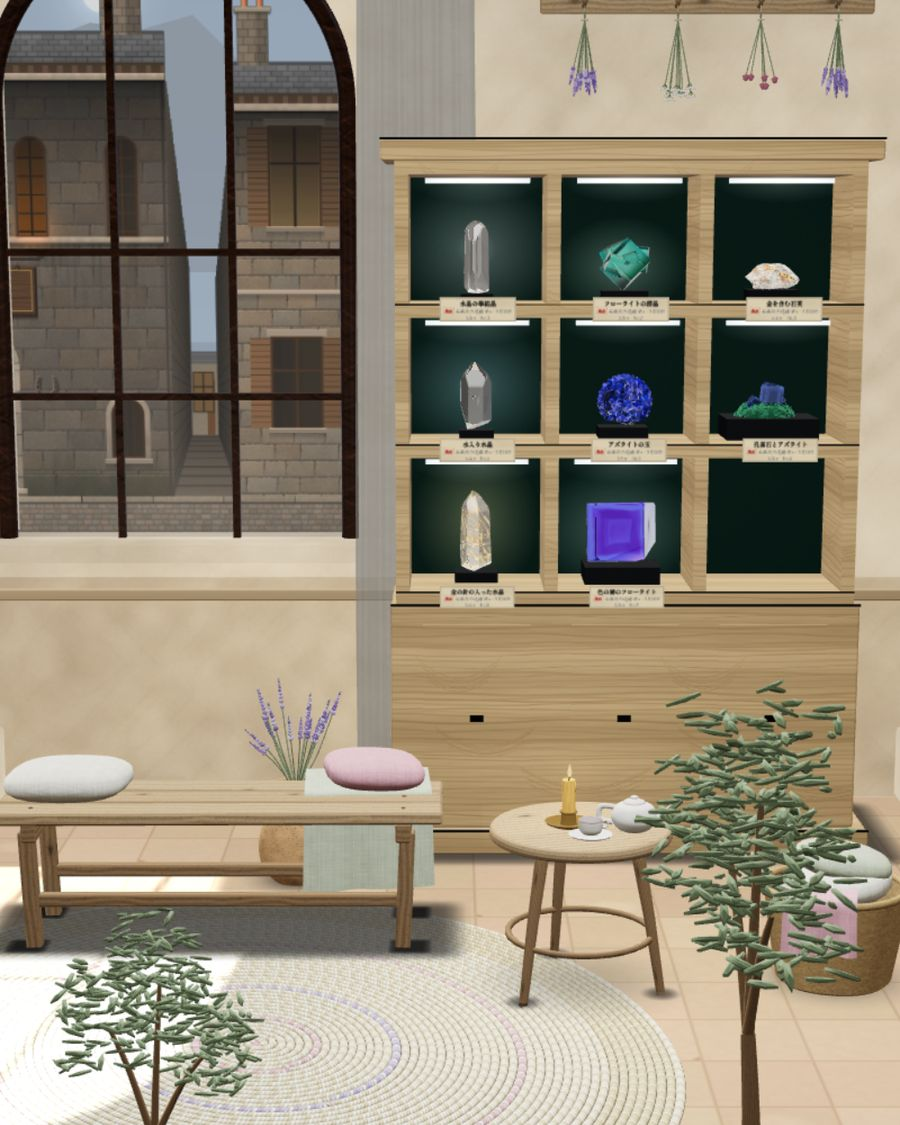
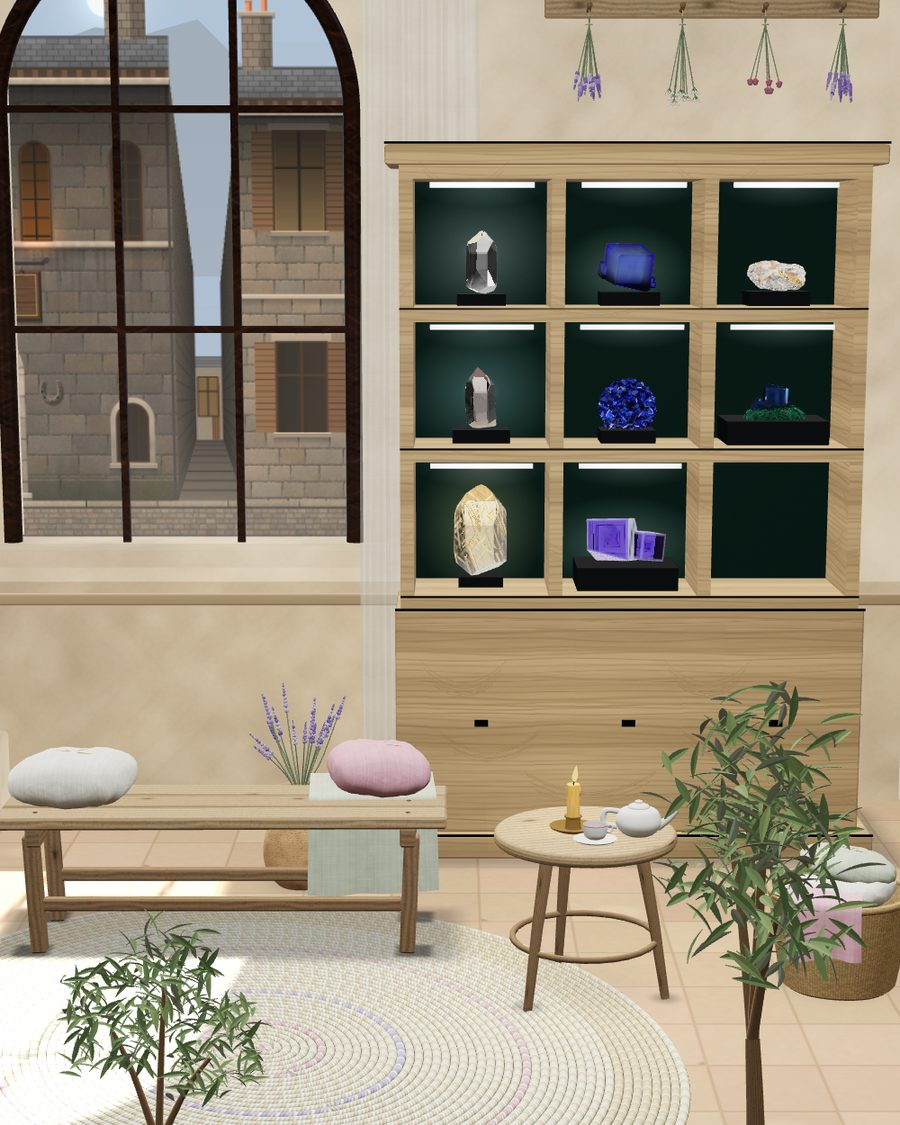
LP: ターゲットの遊び手に向けて組み直し、量を減らし、札と飾る部屋の絵を今のアプリに合わせる(日本語版)
- 「掘って、眺めて、飾る」に操作の一行と「時間制限なし・途中で閉じても残る・最初の洞窟は無料」を足す。結晶は「叩いて」掘る
- 「一個ずつに、札が付く」の節を足す。絵は CardKiraraOnly の撮り直し(格を見せない作り・段1のキララの一言)。「ふつうの札に、点数や格付けは付きません」
- 飾る部屋の6枚を ExhibitShots.FurnishShots で撮り直し、同じ構図で切る。オルゴールとキララのうたた寝の2枚を足す
- 減らした物: 夜の暖炉の段・貼り紙・石の記憶の節(出会いの節の一行に畳む)・キララの吹き出し(1つに)・宝石の名前の一覧
- 値段: 広告・ガチャなし、部屋とオルゴールは掘った石のお金、200円の買い切り・全部で1,200円まで、試し掘り、まとめて980円
- 英語版の文はまだ。部屋の絵は日英で共通なので英語版も新しい絵になる

diff --git a/index.html b/index.html
@@ -4,9 +4,9 @@
 <meta charset="utf-8">
 <meta name="viewport" content="width=device-width, initial-scale=1">
 <title>狐と地底の宝石｜宝石と鉱物を掘って飾る iPhone ゲーム</title>
-<meta name="description" content="結晶を割って宝石や鉱物を掘り当て、手に取って眺め、好きな部屋にしつらえた標本室に飾る iPhone ゲームです。水晶、アメジスト、エメラルドなど20種類以上。広告はありません。2026年冬 配信予定。">
+<meta name="description" content="結晶を叩いて宝石や鉱物を掘り当て、一個ずつ札の付いた標本を手に取って眺め、好きな部屋にしつらえた標本室に飾る iPhone ゲームです。水晶、アメジスト、エメラルドなど20種類以上。広告もガチャもありません。2026年冬 配信予定。">
 <meta property="og:title" content="狐と地底の宝石">
-<meta property="og:description" content="結晶を割って宝石や鉱物を掘り当て、手に取って眺め、好きな部屋にしつらえた標本室に飾る iPhone ゲームです。水晶、アメジスト、エメラルドなど20種類以上。広告はありません。2026年冬 配信予定。">
+<meta property="og:description" content="結晶を叩いて宝石や鉱物を掘り当て、一個ずつ札の付いた標本を手に取って眺め、好きな部屋にしつらえた標本室に飾る iPhone ゲームです。水晶、アメジスト、エメラルドなど20種類以上。広告もガチャもありません。2026年冬 配信予定。">
 <meta property="og:type" content="website">
 <meta property="og:url" content="https://kippou-game.com/">
 <meta property="og:image" content="https://kippou-game.com/img/ogp.jpg">
@@ -18,7 +18,7 @@
 {"@context": "https://schema.org", "@type": "VideoGame",
  "name": "狐と地底の宝石", "alternateName": "Fox and the Buried Gems",
  "url": "https://kippou-game.com/", "image": "https://kippou-game.com/img/ogp.jpg",
- "description": "結晶を割って宝石や鉱物を掘り当て、手に取って眺め、標本室に飾る iPhone ゲーム。",
+ "description": "結晶を叩いて宝石や鉱物を掘り当て、手に取って眺め、標本室に飾る iPhone ゲーム。",
  "gamePlatform": "iOS", "operatingSystem": "iOS", "inLanguage": "ja",
  "author": {"@type": "Person", "name": "kokidev", "url": "https://x.com/kokidev_jp"}}
 </script>
@@ -40,7 +40,7 @@
     <img class="logo" src="img/logo.png" alt="狐と地底の宝石 Fox and the Buried Gems" width="900" height="184">
     <p class="lead">地の底で、自分だけの宝石を<br>掘り当てて飾る。</p>
     <p class="promise">広告なし・ガチャなし・買い切り</p>
-    <p class="note">iPhone向けゲーム・2026年冬 配信予定</p>
+    <p class="note">iPhone向けゲーム・最初の洞窟は無料・2026年冬 配信予定</p>
     <a class="follow" href="https://x.com/kokidev_jp">X で開発を追いかける</a>
   </div>
   <a class="more-cue" href="#gems" aria-label="続きを見る"></a>
@@ -57,13 +57,18 @@
 
 <section>
   <h2>掘って、眺めて、飾る</h2>
-  <p class="sub ph"><span>ツルハシ一本で、</span><span>地の底へ。</span><br><span>鉱物の知識は</span><span>いりません。</span><span>石のことは、</span><span>狐のキララが</span><span>教えます。</span></p>
+  <p class="sub ph"><span>操作は、</span><span>指で叩く・</span><span>なぞって拾う・</span><span>回して眺める、</span><span>だけ。</span><br><span>鉱物の知識は</span><span>いりません。</span><span>石のことは、</span><span>狐のキララが</span><span>教えます。</span></p>
+  <ul class="easy">
+    <li>時間制限なし</li>
+    <li>途中で閉じても、そのまま残る</li>
+    <li>最初の洞窟は無料</li>
+  </ul>
   <div class="steps">
     <div class="step">
       <video class="crack" poster="img/crack_poster.jpg" autoplay muted loop playsinline preload="none" width="560" height="700"
-             aria-label="洞窟の結晶をツルハシで叩くと、割れて欠け落ち、中から光る石が出てくる"><source src="img/crack.mp4" type="video/mp4"></video>
-      <h3>結晶を割って掘る</h3>
-      <p class="ph"><span>洞窟の壁に</span><span>生えた</span><span>結晶を、</span><span>指で</span><span>叩いて</span><span>割ります。</span><span>中から</span><span>宝石が</span><span>出てきます。</span></p>
+             aria-label="洞窟の結晶をツルハシで叩くと、ひびが走って欠け落ち、中から光る石が出てくる"><source src="img/crack.mp4" type="video/mp4"></video>
+      <h3>結晶を叩いて掘る</h3>
+      <p class="ph"><span>洞窟に</span><span>生えた</span><span>結晶を、</span><span>指で</span><span>叩きます。</span><span>ひびが走って</span><span>欠け落ち、</span><span>中から</span><span>宝石が</span><span>出てきます。</span></p>
     </div>
     <div class="step">
       <img src="img/B_21_1_back.jpg" alt="アメジストの晶洞を光に透かしている画面" width="660" height="825" loading="lazy">
@@ -73,13 +78,27 @@
     <div class="step">
       <img src="img/D_case_emerald.jpg" alt="書斎の標本室のガラスケースに飾ったエメラルドと、掘った洞窟と日付の札" width="660" height="1434" loading="lazy">
       <h3>標本室に飾る</h3>
-      <p class="ph"><span>手元に</span><span>残したい一個は、</span><span>標本室の</span><span>ガラスケースに</span><span>飾ります。</span><span>掘った</span><span>洞窟と</span><span>日付を</span><span>書いた</span><span>札が</span><span>付きます。</span></p>
+      <p class="ph"><span>手元に</span><span>残したい一個は、</span><span>標本室の</span><span>ガラスケースに</span><span>飾ります。</span><span>札も</span><span>一緒に</span><span>並びます。</span></p>
+    </div>
+  </div>
+</section>
+
+<section class="card">
+  <!-- 拾った標本の札(GameShell の札)と、札の前に出るキララの一言(KiraraLines.Event)。撮影 Cave3DShots.CardKiraraOnly の4枚目(10-25 格を見せない作りの後) -->
+  <div class="wide">
+    <img src="img/card_kirara.jpg" alt="博物館級の印が付いた水晶の単結晶の札。見出しの下に「大きく、先まで欠けがない」。石英洞の通路・0m・日付・6.0cm・無色・澄んでいる・先端完全。キララが「欠けひとつないよ。どこから見ても、文句なしだね。」と目を輝かせる" width="660" height="987" loading="lazy">
+    <div>
+      <h2 class="left">一個ずつに、<br>札が付く</h2>
+      <p class="ph"><span>拾った標本には、</span><span>名前と、</span><span>掘った洞窟・</span><span>深さ・</span><span>日付、</span><span>大きさ、</span><span>見た目の特徴を</span><span>書いた札が</span><span>付きます。</span></p>
+      <p class="ph"><span>欠けのない一本、</span><span>金を抱えた一個、</span><span>水を閉じ込めた一本。</span><span>同じ水晶でも、</span><span>札は一枚ずつ</span><span>違います。</span></p>
+      <p class="ph dim"><span>ふつうの札に、</span><span>点数や格付けは</span><span>付きません。</span><span>とびきりの一個にだけ、</span><span>「逸品」「博物館級」の印と、</span><span>どこが良いかの</span><span>一行が付きます。</span><span>気に入った一個には、</span><span>星を付けておけます。</span></p>
     </div>
   </div>
 </section>
 
 <section class="rooms">
   <!-- 標本室のしつらえ(ゲームの FurnishTable)。名前はゲームの表のまま。洞窟1〜6の組だけ見せ、竜骨窟・クリア後の組は名前を出さず「この先にも」でぼかす。
+       絵は ExhibitShots.FurnishShots<組> の furnish<組>_day_right を (80,224)-(1080,1474) で切って 900×1125(10-25 撮り直し)。
        部屋は同じ構図で1枚の枠の中を入れ替える(同じ標本室がまるごと別の部屋になる=ゲームの「部屋で試す」)。キララは下の1枚にだけ座らせる -->
   <h2>飾る部屋も、自分で選ぶ</h2>
   <div class="wide">
@@ -92,64 +111,21 @@
       <figure><img src="img/room_snowqueen.jpg" alt="淡い水色の壁とリボンの椅子の部屋" width="900" height="1125" loading="lazy"><figcaption>雪の女王の間</figcaption></figure>
     </div>
     <div>
-      <p class="ph"><span>標本室は</span><span>洞窟ごとに</span><span>ひとつあり、</span><span>内装を</span><span>好きな部屋に</span><span>変えられます。</span><span>部屋は</span><span>買う前に、</span><span>自分の標本室で</span><span>試せます。</span></p>
+      <p class="ph"><span>標本室は</span><span>洞窟ごとに</span><span>ひとつあり、</span><span>内装を</span><span>まるごと</span><span>好きな部屋に</span><span>変えられます。</span><span>部屋は</span><span>買う前に、</span><span>自分の標本室で</span><span>試せます。</span><span>代金は、</span><span>掘った石を</span><span>売ったお金で</span><span>払います。</span></p>
       <p class="more ph"><span>深い洞窟に</span><span>進むほど、</span><span>町の調度屋に</span><span>並ぶ部屋が</span><span>増えます。</span><br><span>ここに</span><span>載せていない</span><span>部屋も、</span><span>まだ</span><span>いくつも</span><span>あります。</span></p>
     </div>
   </div>
-  <div class="wide dusk">
-    <div>
-      <p>夜になると、部屋に灯りがともる。<br>キララは、決まった席に座る。</p>
-      <!-- ゲームの標本室の席のセリフ(BenchSitRules)をそのまま -->
-      <p class="bubble"><small>キララ</small>ここ、アタシの定位置にしていい？<br>……ダメって言われても座るけど。</p>
+  <!-- オルゴール(MusicBoxRules・Workbench の一言)と、ケースの上でうたた寝するキララ(KiraraLines.Room)。撮影 UiShots の ui_musicbox_e_play・ui_specimen_room_kirara_nap -->
+  <div class="steps two">
+    <div class="step">
+      <img src="img/room_musicbox.jpg" alt="標本室の隅のオルゴールが鳴り、ベンチのキララが「わっ、鳴った！中の金色が回ってる。」" width="660" height="660" loading="lazy">
+      <h3>洞窟の曲を、オルゴールで</h3>
+      <p class="ph"><span>洞窟で</span><span>聴いた曲が、</span><span>オルゴールに</span><span>一曲ずつ</span><span>増えていきます。</span><span>好きな一曲を</span><span>選んで、</span><span>標本室で</span><span>鳴らせます。</span></p>
     </div>
-    <img src="img/room_hearth_kirara.jpg" alt="夜の深紅の暖炉の間。ストーブとランプが灯り、長椅子にキララが座る" width="900" height="1125" loading="lazy">
-  </div>
-</section>
-
-<section>
-  <!-- 世界の中の紙。出し手は町の買取所(ゲームの買取所の壁にも同じ物を貼る)。値段・広告・X など世界の外の事はここに書かない -->
-  <div class="notice" role="note" aria-label="町の買取所の貼り紙">
-    <p class="n-head">掘り手、求む</p>
-    <p>地の底には、宝石が<br>柱のように生えている。</p>
-    <p>掘った石は、当店で買い取ります。<br>良い石ほど、高く買います。<br>経験は問いません。<br>ツルハシは隣の鍛冶場で。</p>
-    <p class="n-sign">町の買取所</p>
-  </div>
-</section>
-
-<section class="meet">
-  <!-- ゲームの出会い(KiraraStory.MeetBefore/MeetAfter/MeetNamed)のセリフをそのまま。灯りを渡すまではランタンの無い絵 -->
-  <img class="sleep" src="img/kirara_sleep.png" alt="丸くなって眠る白い狐" width="440" height="292" loading="lazy">
-  <h2>結晶の中で、狐が眠っていた</h2>
-  <p class="sub ph"><span>最初に割った結晶から、</span><span>白い玉が</span><span>転がり出た。</span><br><span>拾い上げると、</span><span>割れ目の奥で</span><span>何かが動いた。</span></p>
-  <div class="talk">
-    <div class="greet"><img src="img/kirara_wake.png" data-body="img/kirara_wake_body.png" data-tail="128.0 145.8 98.0 1.55 205" alt="" width="200" height="197" loading="lazy"><p class="bubble">……ふあ。あっ、それ！<br>アタシの玉だよ。</p></div>
-    <p class="aside">玉を返すと、狐はぽつりと話しだした。</p>
-    <div class="greet"><img src="img/kirara_recall.png" data-body="img/kirara_recall_body.png" data-tail="153.7 175.1 123.3 1.5 205" alt="" width="200" height="229" loading="lazy"><p class="bubble">この石の中に、<br>閉じ込められてたの。……ずっと。<br><br>何度起きても出られなくて。<br>アンタが割らなきゃ、まだ寝てた。</p></div>
-    <div class="greet"><img src="img/kirara_lend.png" data-body="img/kirara_lend_body.png" data-tail="139.8 181.7 122.3 1.5 208" alt="" width="200" height="233" loading="lazy"><p class="bubble">その灯り、貸して。<br>両手が空いたほうが掘りやすいでしょ。</p></div>
-    <div class="greet"><img src="img/kirara_energetic.png" data-body="img/kirara_energetic_body.png" data-tail="145.6 161.7 108.2 1.3 242" alt="" width="200" height="201" loading="lazy"><p class="bubble">借りは返すよ。<br>案内してあげる！</p></div>
-  </div>
-</section>
-
-<section class="intro">
-  <p class="name">キララ</p>
-  <p class="ph"><span>洞窟で</span><span>灯りを持ってくれる、</span><span>相棒の狐。</span><br><span>宝石に詳しく、</span><span>出てきた石に</span><span>いちいち口を出す。</span><br><span>嘘がつけず、</span><span>言わない気持ちは</span><span>しっぽに出る。</span></p>
-  <!-- ゲームの中のセリフ(KiraraLines)をそのまま。竜骨窟・キララの本音に触れる物は使わない。遊び手を採点する・下げる言い方は載せない(2026-10-10 女性の遊び手5人の投票で、見とれる・飾る・相棒の3本に。10-13 ゲームの4版「嘘はつけない・尻尾は正直」に合わせ、相棒の1本をゲームの今の文に) -->
-  <div class="voices">
-    <div class="voice"><img src="img/kirara_cheer.png" data-body="img/kirara_cheer_body.png" data-tail="146.2 142.5 101.4 1.22 229" alt="" width="200" height="206" loading="lazy"><p class="bubble"><small>初めての種類が出た時</small>アンタが掘って、アタシが照らした。<br>悪くない分け方でしょ。</p></div>
-    <div class="voice"><img src="img/kirara_shy.png" data-body="img/kirara_shy_body.png" data-tail="139.5 183.5 130.8 1.1 220" alt="" width="200" height="226" loading="lazy"><p class="bubble"><small>珍しい結晶が出た時</small>……しーっ。<br>今、見とれてるから。</p></div>
-    <div class="voice"><img src="img/kirara_affection.png" data-body="img/kirara_affection_body.png" data-tail="158.2 140.8 120.8 1.36 224" alt="" width="200" height="187" loading="lazy"><p class="bubble"><small>割らずに取れた時</small>これ、灯りの下に飾ろ。<br>……アンタも、そう思うでしょ。</p></div>
-  </div>
-</section>
-
-<section class="memory">
-  <!-- 石の記憶(MemoryRules.Wonder)。物語の答え(向こう側・母さん・竜骨窟)には触れず、入ってきた所で止める -->
-  <div class="wide">
-    <img src="img/kirara_touch.png" alt="目を閉じ、アクアマリンに前足を乗せる白い狐" width="490" height="689" loading="lazy">
-    <div>
-      <h2 class="left">宝石に、<br>何かが残っている</h2>
-      <p>澄んだ一個に、キララが<br>そっと前足を乗せる。</p>
-      <p class="bubble"><small>キララ</small>……っ。今の、なに？<br>知らない誰かが、頭に入ってきた。</p>
-      <p class="after">それが誰なのかは、<br>キララにもまだ分からない。<br>深く潜るほど、少しずつ分かってくる。</p>
+    <div class="step">
+      <img src="img/room_nap.jpg" alt="標本室のガラスケースの上で、キララが「石の夢、見てた……きらきら、ふわふわ……」" width="660" height="660" loading="lazy">
+      <h3>キララも、ここでくつろぐ</h3>
+      <p class="ph"><span>標本室を</span><span>見て回ると、</span><span>ケースの上で</span><span>うたた寝して</span><span>いることも。</span><span>寝ぼけた声で、</span><span>石の夢の話を</span><span>します。</span></p>
     </div>
   </div>
 </section>
@@ -161,9 +137,32 @@
       <h2 class="left">20を超える宝石と鉱物</h2>
       <!-- 竜骨窟の4種(アダマス・カーバンクル・クリソランピス・セレニテス)はネタバレなので名前を出さない -->
       <p class="ph"><span>同じ種類でも、</span><span>形も</span><span>大きさも</span><span>質も</span><span>一個ずつ</span><span>違います。</span><span>洞窟は</span><span>7つ。</span><span>深い洞窟ほど</span><span>景色が</span><span>変わり、</span><span>出てくる</span><span>宝石も</span><span>違ってきます。</span></p>
+      <p class="ph"><span>金を含む石英、</span><span>ファントム入りの</span><span>アメジスト、</span><span>トラピッチェ・</span><span>エメラルド。</span><span>標本の種類は</span><span>70を超えます。</span></p>
       <p class="ph real"><span>どの宝石も、</span><span>本物の標本の</span><span>写真と</span><span>見比べて</span><span>作っています。</span></p>
-      <p class="names ph"><span>水晶、</span><span>アメジスト、</span><span>アクアマリン、</span><span>エメラルド、</span><span>ルビー、</span><span>トパーズ、</span><span>フローライト、</span><span>トルマリン、</span><span>ペリドット、</span><span>クンツァイト、</span><span>ガーネット、</span><span>オパール、</span><span>ムーンストーン、</span><span>アズライト、</span><span>カルサイト、</span><span>パイライト、</span><span>ヘマタイト、</span><span>ショールなど。</span></p>
     </div>
+  </div>
+</section>
+
+<section class="meet">
+  <!-- ゲームの出会い(KiraraStory.MeetBefore/MeetAfter/MeetNamed)のセリフをそのまま。灯りを渡すまではランタンの無い絵 -->
+  <img class="sleep" src="img/kirara_sleep.png" alt="丸くなって眠る白い狐" width="440" height="292" loading="lazy">
+  <h2>結晶の中で、狐が眠っていた</h2>
+  <p class="sub ph"><span>最初に割った結晶から、</span><span>白い玉が</span><span>転がり出た。</span><br><span>拾い上げると、</span><span>ひびの奥で</span><span>何かが動いた。</span></p>
+  <div class="talk">
+    <div class="greet"><img src="img/kirara_wake.png" data-body="img/kirara_wake_body.png" data-tail="128.0 145.8 98.0 1.55 205" alt="" width="200" height="197" loading="lazy"><p class="bubble">……ふあ。あっ、それ！<br>アタシの玉だよ。</p></div>
+    <p class="aside">玉を返すと、狐は灯りを持ってくれた。</p>
+    <div class="greet"><img src="img/kirara_energetic.png" data-body="img/kirara_energetic_body.png" data-tail="145.6 161.7 108.2 1.3 242" alt="" width="200" height="201" loading="lazy"><p class="bubble">借りは返すよ。<br>案内してあげる！</p></div>
+  </div>
+  <!-- 石の記憶(MemoryRules.Wonder)は節を畳み、謎の一行だけ。物語の答えには触れない -->
+  <p class="sub ph after-meet"><span>キララが</span><span>澄んだ宝石に</span><span>前足を乗せると、</span><span>遠い誰かの</span><span>思い出が</span><span>浮かぶらしい。</span><br><span>深く潜るほど、</span><span>少しずつ</span><span>分かってくる。</span></p>
+</section>
+
+<section class="intro">
+  <p class="name">キララ</p>
+  <p class="ph"><span>洞窟で</span><span>灯りを持ってくれる、</span><span>相棒の狐。</span><br><span>宝石に詳しく、</span><span>出てきた石に</span><span>いちいち口を出す。</span><br><span>嘘がつけず、</span><span>言わない気持ちは</span><span>しっぽに出る。</span></p>
+  <!-- ゲームの中のセリフ(KiraraLines)をそのまま。竜骨窟・キララの本音に触れる物は使わない。遊び手を採点する・下げる言い方は載せない(2026-10-10 女性の遊び手5人の投票で、見とれる・飾る・相棒の3本に。10-13 ゲームの4版「嘘はつけない・尻尾は正直」に合わせ、相棒の1本をゲームの今の文に) -->
+  <div class="voices">
+    <div class="voice"><img src="img/kirara_shy.png" data-body="img/kirara_shy_body.png" data-tail="139.5 183.5 130.8 1.1 220" alt="" width="200" height="226" loading="lazy"><p class="bubble"><small>珍しい結晶が出た時</small>……しーっ。<br>今、見とれてるから。</p></div>
   </div>
 </section>
 
@@ -172,14 +171,15 @@
 <section>
   <div class="price">
     <h2>掘りたい時に、<br>掘りたいだけ</h2>
-    <p class="sub ph"><span>スタミナも、</span><span>毎日こなす</span><span>課題も</span><span>ありません。</span><br><span>寝る前に</span><span>少しだけでも、</span><span>休みの日に</span><span>じっくりでも。</span></p>
+    <p class="sub ph"><span>スタミナも、</span><span>毎日こなす</span><span>課題も</span><span>ありません。</span><br><span>途中で閉じても、</span><span>掘りかけの洞窟は</span><span>そのまま残ります。</span><br><span>寝る前に</span><span>少しだけでも、</span><span>休みの日に</span><span>じっくりでも。</span></p>
     <ul>
       <li>広告はありません</li>
       <li>ガチャも、月額の課金もありません</li>
-      <li>標本室の部屋は、掘った石を売って貯めたゲーム内のお金で買えます</li>
+      <li>標本室の部屋もオルゴールも、掘った石を売って貯めたゲーム内のお金で買えます</li>
       <li>最初の洞窟は<b>無料</b>で、ずっと遊べます</li>
-      <li class="ph"><span>残り6つの洞窟は、</span><span>ひとつ<b>200円</b>の買い切りです</span></li>
-      <li class="ph"><span>6つまとめて買うと、</span><span><b>1,200円</b>が<b>980円</b>になります</span></li>
+      <li class="ph"><span>残り6つの洞窟は、</span><span>ひとつ<b>200円</b>の買い切り。</span><span>全部そろえても</span><span><b>1,200円</b>までです</span></li>
+      <li class="ph"><span>どの洞窟も、</span><span>買う前に</span><span>結晶を1つ</span><span>試し掘りできます</span></li>
+      <li class="ph small"><span>残りをまとめて</span><span>980円で買うことも</span><span>できます</span></li>
     </ul>
   </div>
 </section>
@@ -187,7 +187,7 @@
 <section class="cta">
   <div class="greet">
     <img src="img/kirara_energetic.png" data-body="img/kirara_energetic_body.png" data-tail="145.6 161.7 108.2 1.3 242" data-wag alt="" width="200" height="201" loading="lazy">
-    <p class="bubble"><small>キララ</small>待ってるかは、言わない。<br>……しっぽは、見ないで。</p>
+    <p class="bubble"><small>キララ</small>ねえ、次はどの石を<br>見せてくれるの？</p>
   </div>
   <h2>配信が始まったら、<br>X でお知らせします</h2>
   <p class="sub">開発中の画面を、少しずつ載せています。<br>遊んでいる様子は、X の固定ポストの動画で見られます。</p>

diff --git a/style.css b/style.css
@@ -208,3 +208,20 @@ footer { padding: 40px 16px; text-align: center; color: var(--dim); font-size: 1
 @media (max-width: 760px) { .more-cue { bottom: 12px; width: 14px; height: 14px; margin-left: -7px; } } /* ボタンに寄りすぎない */
 @media (prefers-reduced-motion: reduce) { .more-cue { animation: none; } }
 @media (prefers-reduced-motion: no-preference) { html { scroll-behavior: smooth; } }
+
+/* 札の節と、標本室で過ごす2枚(10-25) */
+.card .wide img { border: 1px solid rgba(201,162,94,.45); }
+.card .dim { color: var(--dim); font-size: 14px; }
+.steps.two { grid-template-columns: repeat(2, minmax(0, 300px)); margin-top: 88px; }
+.steps.two .step img { aspect-ratio: auto; }
+@media (max-width: 760px) {
+  .steps.two { grid-template-columns: minmax(0, 300px); margin-top: 64px; }
+}
+
+/* 10-25 ペルソナの声: 手軽さを遊び方のすぐ下に・灰色の小さい字を大きく */
+.easy { list-style: none; padding: 0; margin: -24px auto 48px; display: flex; flex-wrap: wrap; justify-content: center; gap: 8px 12px; }
+.easy li { border: 1px solid rgba(201,162,94,.5); border-radius: 999px; padding: 4px 16px; font-size: 14px; color: #dcb877; }
+.step p, .card .dim, .aside { font-size: 15px; }
+.names { font-size: 15px; color: #c2bcae; }
+.price li.small { font-size: 14px; }
+.after-meet { margin: 40px auto 0; }
